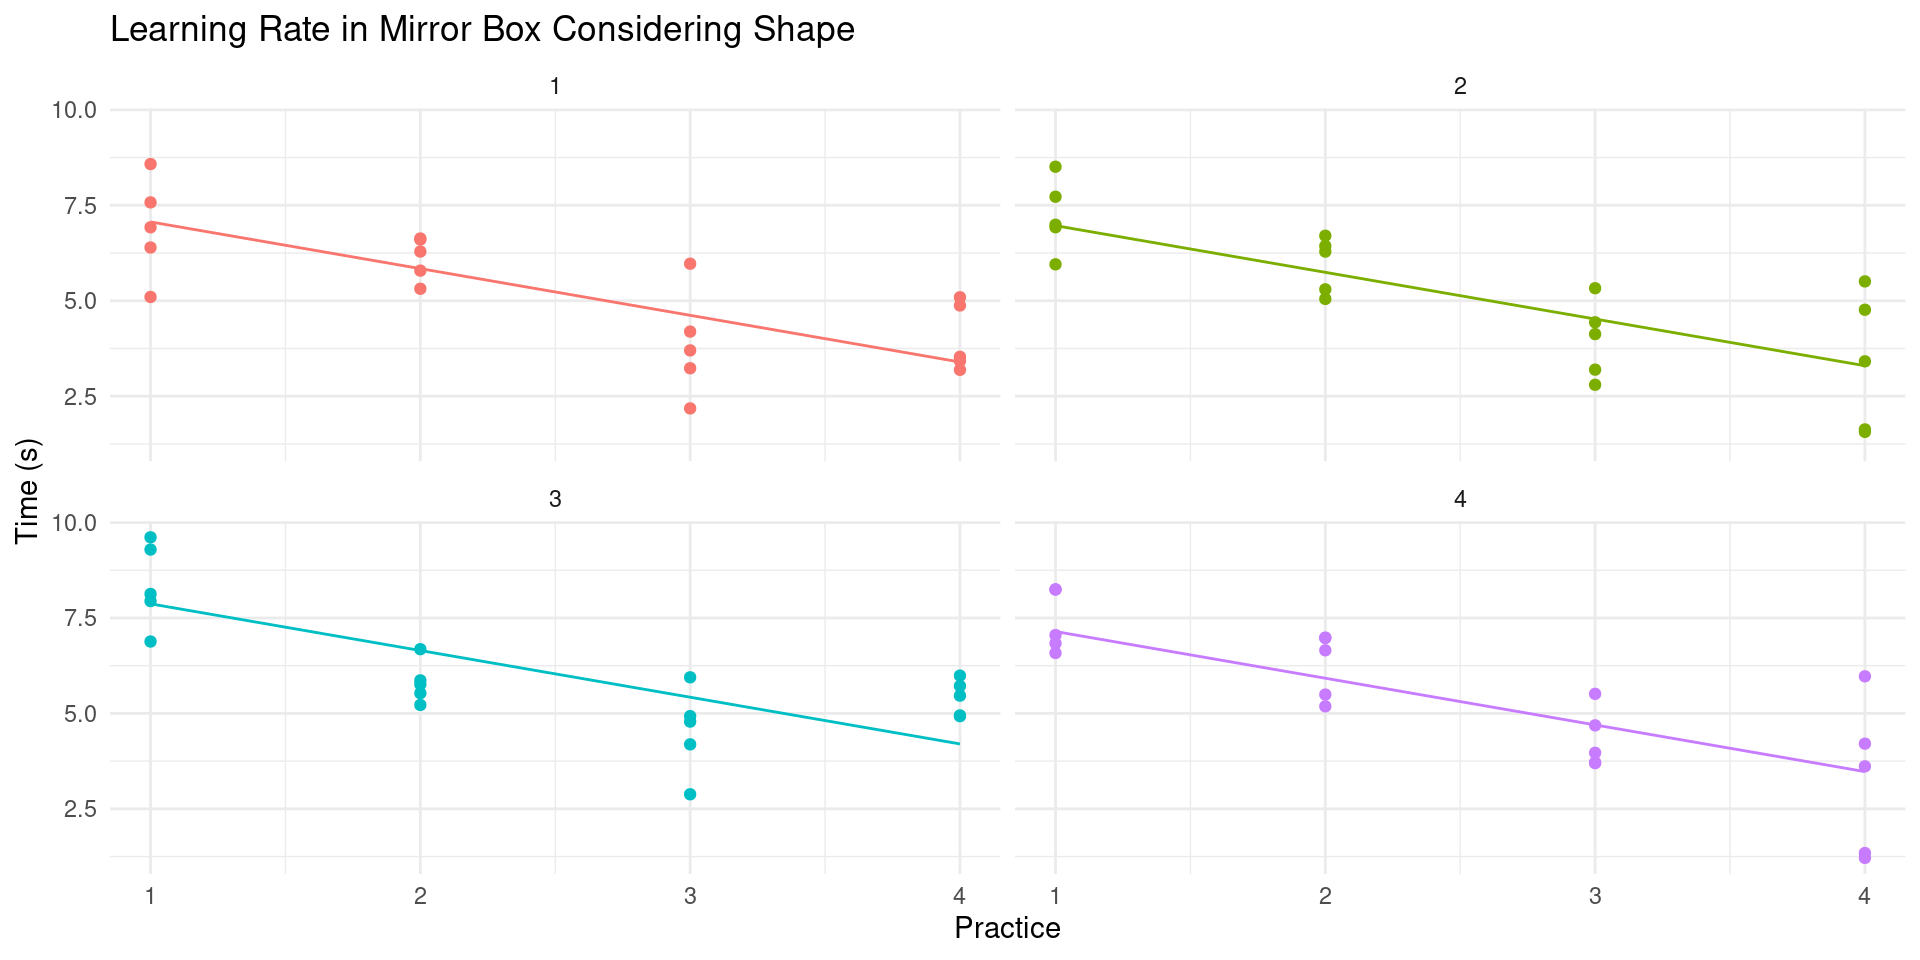
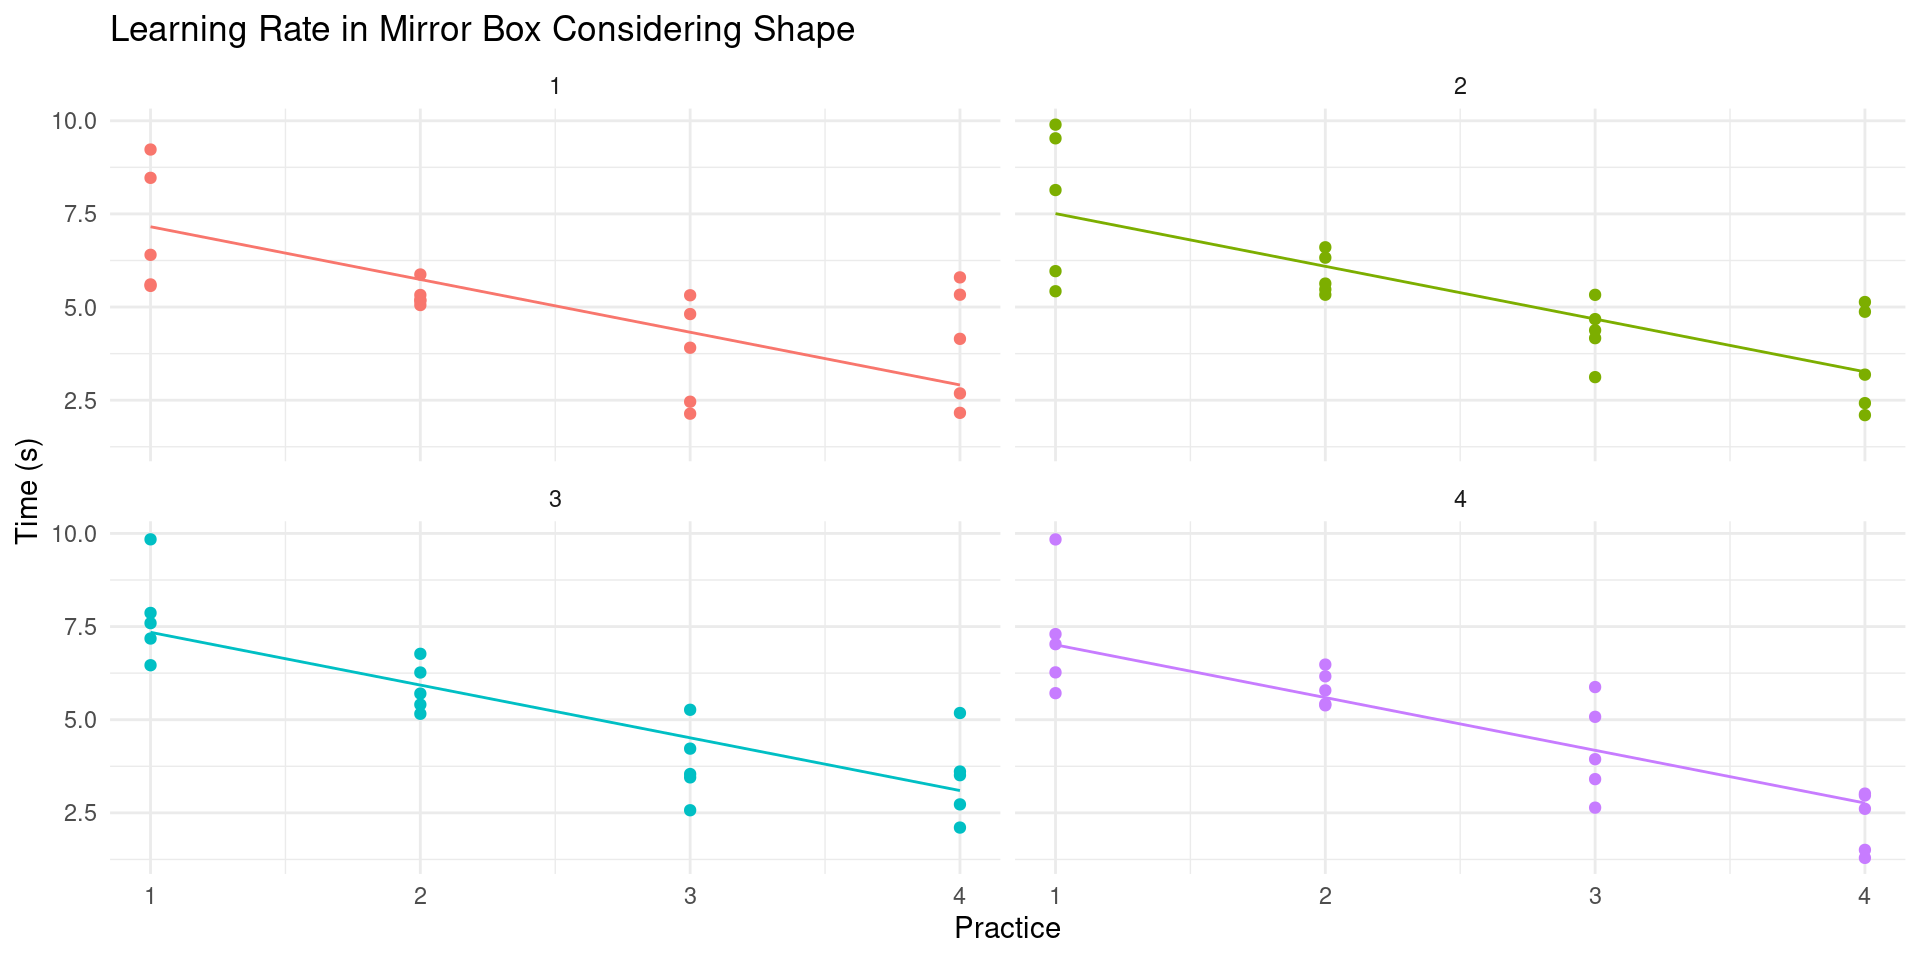
Some work

diff --git a/Nog_event06122023.html b/Nog_event06122023.html
@@ -374,7 +374,7 @@
 <img data-src="Nog_event06122023_files/figure-revealjs/graph1-1.png" width="960" class="r-stretch"></section>
 <section id="mirror-box-results-statistics" class="slide level2">
 <h2>Mirror Box Results Statistics</h2>
-<p>Time = -1.223107*Position + 8.48387</p>
+<p>Time = -1.4154428*Position + 8.6695714</p>
 <div class="cell">
 <div class="cell-output cell-output-stdout">
 <pre><code>
@@ -383,24 +383,24 @@ lm(formula = `Time (s)` ~ Practice, data = mirror_df)
 
 Residuals:
     Min      1Q  Median      3Q     Max 
--2.6349 -0.7279 -0.1488  0.8848  2.3976 
+-2.2853 -0.8056 -0.2042  0.6443  2.7885 
 
 Coefficients:
             Estimate Std. Error t value Pr(&gt;|t|)    
-(Intercept)   8.4839     0.3299   25.72  &lt; 2e-16 ***
-Practice     -1.2231     0.1205  -10.15 6.38e-16 ***
+(Intercept)   8.6696     0.3326   26.07   &lt;2e-16 ***
+Practice     -1.4154     0.1215  -11.65   &lt;2e-16 ***
 ---
 Signif. codes:  0 '***' 0.001 '**' 0.01 '*' 0.05 '.' 0.1 ' ' 1
 
-Residual standard error: 1.205 on 78 degrees of freedom
-Multiple R-squared:  0.5693,    Adjusted R-squared:  0.5638 
-F-statistic: 103.1 on 1 and 78 DF,  p-value: 6.384e-16</code></pre>
+Residual standard error: 1.215 on 78 degrees of freedom
+Multiple R-squared:  0.6352,    Adjusted R-squared:  0.6305 
+F-statistic: 135.8 on 1 and 78 DF,  p-value: &lt; 2.2e-16</code></pre>
 </div>
 </div>
 </section>
 <section id="mirror-box-results-statistics-1" class="slide level2">
 <h2>Mirror Box Results Statistics</h2>
-<p>Time = -1.223107*Position + 8.48387</p>
+<p>Time = -1.4154428*Position + 8.6695714</p>
 
 <img data-src="Nog_event06122023_files/figure-revealjs/graph2-1.png" width="960" class="r-stretch"></section>
 <section id="mirror-box-results-statistics-2" class="slide level2">
@@ -409,7 +409,7 @@ F-statistic: 103.1 on 1 and 78 DF,  p-value: 6.384e-16</code></pre>
 <div class="cell">
 
 </div>
-<p>Time = -1.223107*Position + 8.3669043 + Shape</p>
+<p>Time = -1.4154428*Position + 8.4245342 + Shape</p>
 <div class="cell">
 <div class="cell-output cell-output-stdout">
 <pre><code>
@@ -418,37 +418,84 @@ lm(formula = `Time (s)` ~ Practice + Shape.1 + Shape.2 + Shape.3,
     data = mirror_df)
 
 Residuals:
-     Min       1Q   Median       3Q      Max 
--2.54162 -0.74739  0.00654  0.79400  2.49705 
+    Min      1Q  Median      3Q     Max 
+-2.1860 -0.7640 -0.1892  0.5866  2.8878 
 
 Coefficients:
             Estimate Std. Error t value Pr(&gt;|t|)    
-(Intercept)  8.36690    0.39304  21.288  &lt; 2e-16 ***
-Practice    -1.22311    0.11718 -10.438  2.9e-16 ***
-Shape.1TRUE -0.08008    0.37056  -0.216    0.829    
-Shape.2TRUE -0.17739    0.37056  -0.479    0.634    
-Shape.3TRUE  0.72534    0.37056   1.957    0.054 .  
+(Intercept)   8.4245     0.4102  20.535   &lt;2e-16 ***
+Practice     -1.4154     0.1223 -11.572   &lt;2e-16 ***
+Shape.1TRUE   0.1457     0.3868   0.377    0.707    
+Shape.2TRUE   0.4989     0.3868   1.290    0.201    
+Shape.3TRUE   0.3355     0.3868   0.867    0.389    
 ---
 Signif. codes:  0 '***' 0.001 '**' 0.01 '*' 0.05 '.' 0.1 ' ' 1
 
-Residual standard error: 1.172 on 75 degrees of freedom
-Multiple R-squared:  0.6081,    Adjusted R-squared:  0.5872 
-F-statistic: 29.09 on 4 and 75 DF,  p-value: 1.323e-14</code></pre>
+Residual standard error: 1.223 on 75 degrees of freedom
+Multiple R-squared:  0.6443,    Adjusted R-squared:  0.6253 
+F-statistic: 33.96 on 4 and 75 DF,  p-value: 3.702e-16</code></pre>
 </div>
 </div>
 </section>
 <section id="mirror-box-results-statistics-3" class="slide level2">
 <h2>Mirror Box Results Statistics</h2>
 <h3 id="accounting-for-the-shape-being-drawn-1">Accounting for the shape being drawn</h3>
-<p>Time = -1.223107*Position + 8.3669043 + Shape</p>
+<p>Time = -1.4154428*Position + 8.4245342 + Shape</p>
 
 <img data-src="Nog_event06122023_files/figure-revealjs/graph3-1.png" width="960" class="r-stretch"></section>
 <section id="mirror-box-results-statistics-4" class="slide level2">
 <h2>Mirror Box Results Statistics</h2>
 <h3 id="accounting-for-the-shape-being-drawn-2">Accounting for the shape being drawn</h3>
-<p>Time = -1.223107*Position + 8.3669043 + Shape</p>
+<p>Time = -1.4154428*Position + 8.4245342 + Shape</p>
 
-<img data-src="Nog_event06122023_files/figure-revealjs/graph4-1.png" width="960" class="r-stretch"><div class="footer footer-default">
+<img data-src="Nog_event06122023_files/figure-revealjs/graph4-1.png" width="960" class="r-stretch"></section></section>
+<section>
+<section id="coarse-motor-plasticity" class="title-slide slide level1 center">
+<h1>Coarse Motor Plasticity</h1>
+<ul>
+<li><p>Question: Can we use the cornhole and dizzy goggles to observe plasticity in the healthy brain performing a coarse motor task?</p></li>
+<li><p>Null Hypothesis: If we can not observe plasticity with the dizzy goggles, we should see the same average score every time we try to get the beanbags in</p></li>
+</ul>
+</section>
+<section id="cornhole-results" class="slide level2">
+<h2>Cornhole Results</h2>
+
+<img data-src="Nog_event06122023_files/figure-revealjs/data2ch-1.png" width="960" class="r-stretch"></section>
+<section id="cornhole-result-distributions" class="slide level2">
+<h2>Cornhole Result Distributions</h2>
+
+<img data-src="Nog_event06122023_files/figure-revealjs/graph1ch-1.png" width="960" class="r-stretch"></section>
+<section id="cornhole-results-statistics" class="slide level2">
+<h2>Cornhole Results Statistics</h2>
+<p>Score = -1.1333381*Practice + 7.9146708</p>
+<div class="cell">
+<div class="cell-output cell-output-stdout">
+<pre><code>
+Call:
+lm(formula = Score ~ Practice, data = ch_df)
+
+Residuals:
+    Min      1Q  Median      3Q     Max 
+-2.4124 -1.2198  0.1012  0.9600  3.1791 
+
+Coefficients:
+            Estimate Std. Error t value Pr(&gt;|t|)    
+(Intercept)   7.9147     0.3836   20.63  &lt; 2e-16 ***
+Practice     -1.1333     0.1401   -8.09 6.29e-12 ***
+---
+Signif. codes:  0 '***' 0.001 '**' 0.01 '*' 0.05 '.' 0.1 ' ' 1
+
+Residual standard error: 1.401 on 78 degrees of freedom
+Multiple R-squared:  0.4563,    Adjusted R-squared:  0.4493 
+F-statistic: 65.45 on 1 and 78 DF,  p-value: 6.289e-12</code></pre>
+</div>
+</div>
+</section>
+<section id="cornhole-results-statistics-1" class="slide level2">
+<h2>Cornhole Results Statistics</h2>
+<p>Score = -1.1333381*Practice + 7.9146708</p>
+
+<img data-src="Nog_event06122023_files/figure-revealjs/graph2ch-1.png" width="960" class="r-stretch"><div class="footer footer-default">
 
 </div>
 </section></section>
